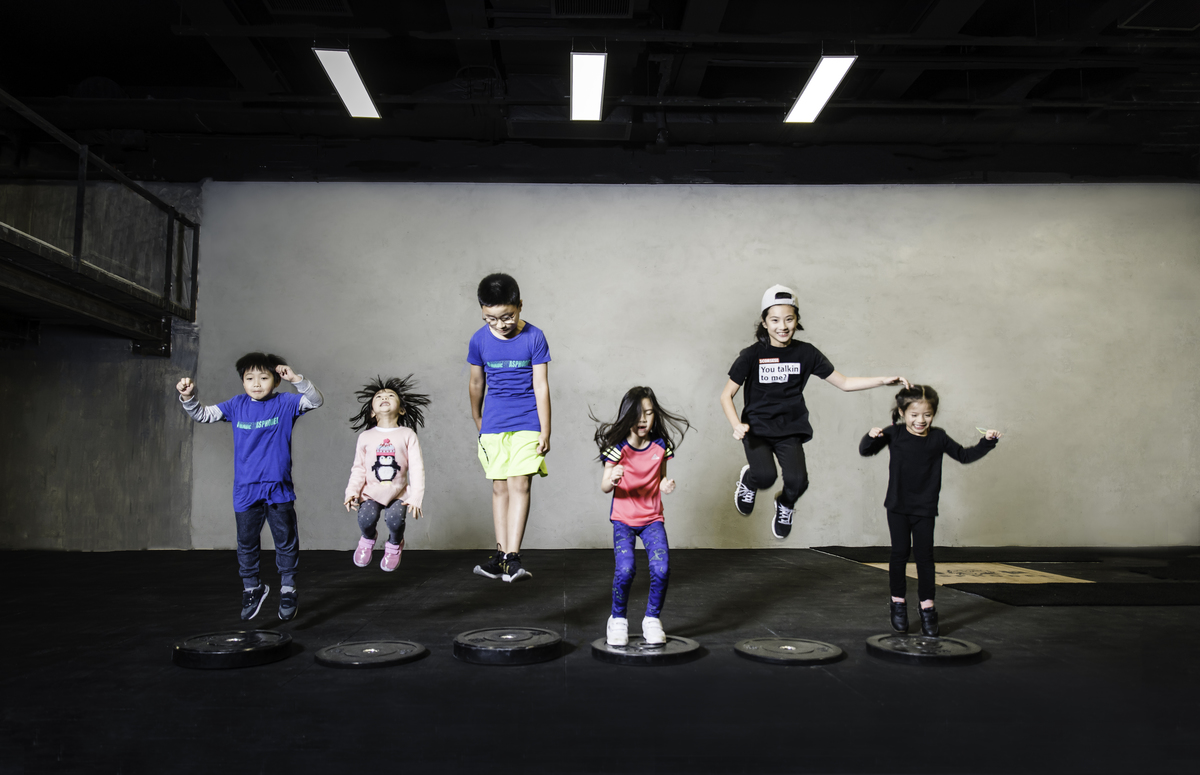
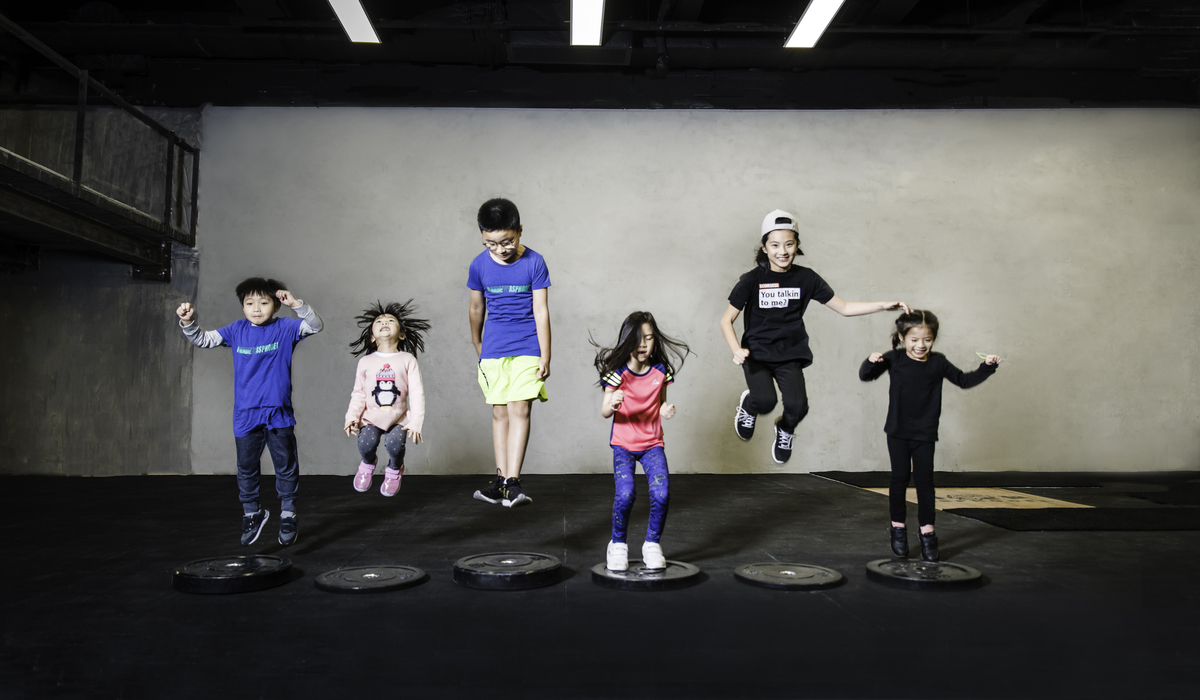
resize some header images

Changed region(s): [[0.0, 0.0, 1.0, 0.87], [0.6475, 0.75, 0.6783, 0.78]]

diff --git a/blog/index.html b/blog/index.html
@@ -3,5 +3,5 @@ layout: blog
 title: "Recent WODs of Crossfit Asphodel"
 teaser: "This is the official blog of Crossfit Asphodel."
 header:
-    image_fullwidth: "headers/gym_h3.jpg"
+    image_fullwidth: "headers/hdr_gym_h3.jpg"
 ---
